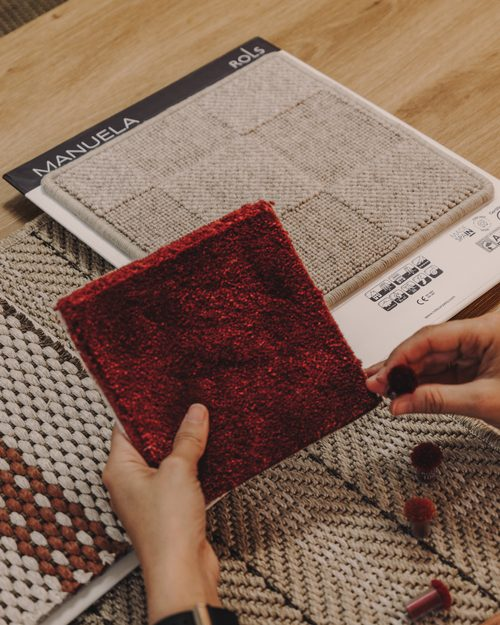
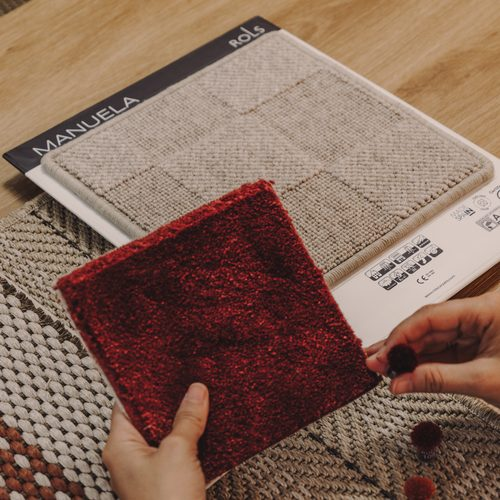
Tiendas #1: CTA arriba, muestras en mosaico 2x2, textos cortos y CTA de colecciones en pill

diff --git a/tiendas/01-muestrarios.html b/tiendas/01-muestrarios.html
@@ -33,56 +33,19 @@
         <h1 style="font-weight:300;font-size:34px;line-height:1.14;letter-spacing:-.01em;margin:0;color:#333a3c;">Todas nuestras colecciones en un solo muestrario para tu tienda</h1>
       </td></tr>
       <tr><td style="padding:20px 40px 34px;">
-        <p style="font-size:13px;line-height:1.8;color:rgba(51,58,60,.6);margin:0;font-weight:400;">Una herramienta pensada para facilitar cada venta. En Rols queremos ponértelo fácil desde el principio: <b style="font-weight:600;color:#333a3c;">pide tus muestras y recíbelas en 24/48&nbsp;h</b>. Así de simple.</p>
+        <p style="font-size:13px;line-height:1.8;color:rgba(51,58,60,.6);margin:0;font-weight:400;">Una herramienta pensada para facilitar cada venta. Pide tus muestras y recíbelas en <b style="font-weight:600;color:#333a3c;">24/48&nbsp;h</b>. Así de simple.</p>
       </td></tr>
 
       <!-- Muestrario -->
       <tr><td style="padding:0 40px 0;">
         <a href="https://www.rolscarpets.com/alta-de-cliente/"><img src="https://anarols.github.io/rols-emails/assets/tiendas-muestrario-c.jpg" width="520" alt="Muestrarios Rols: cajas de muestras de las colecciones Terra Uyuni, Aral, Manuela, Kilt y Palma Nomad" style="width:520px;height:auto;display:block;border-radius:16px;border:0;"></a>
       </td></tr>
-      <tr><td style="padding:14px 40px 48px;">
+      <tr><td style="padding:14px 40px 34px;">
         <p style="font-size:12px;line-height:1.6;color:#8a8a8a;margin:0;">Recupera su coste en tu primer pedido (+1.000&nbsp;€).</p>
       </td></tr>
 
-      <!-- Paso 1: muestras gratis (foto izq) -->
-      <tr><td style="padding:0 40px 40px;">
-        <table role="presentation" width="520" cellpadding="0" cellspacing="0" style="width:520px;table-layout:fixed;">
-          <tr>
-              <td width="250" valign="top" style="width:250px;"><img src="https://anarols.github.io/rols-emails/assets/tiendas-muestras-1-c.jpg" width="250" alt="Muestra de alfombra roja de pelo corto junto a la ficha Manuela de Rols" style="width:250px;height:auto;display:block;border-radius:16px;border:0;"></td><td width="20" style="width:20px;font-size:0;line-height:0;">&nbsp;</td><td width="250" valign="middle" style="width:250px;">
-                <h2 style="font-size:23px;line-height:1.3;font-weight:400;margin:0 0 12px;color:#333a3c;">Hasta 5 muestras gratuitas</h2>
-                <p style="font-size:13px;line-height:1.8;color:rgba(51,58,60,.68);margin:0;">Puedes solicitar hasta <b style="font-weight:600;color:#333a3c;">5 muestras gratuitas</b> para valorar su encaje en tu tienda y enseñárselas a tus clientes.</p>
-              </td>
-          </tr>
-        </table>
-      </td></tr>
-
-      <!-- Paso 2: 24/48 h (foto der) -->
-      <tr><td style="padding:0 40px 40px;">
-        <table role="presentation" width="520" cellpadding="0" cellspacing="0" style="width:520px;table-layout:fixed;">
-          <tr>
-              <td width="250" valign="middle" style="width:250px;">
-                <h2 style="font-size:23px;line-height:1.3;font-weight:400;margin:0 0 12px;color:#333a3c;">En tu tienda en 24/48&nbsp;h</h2>
-                <p style="font-size:13px;line-height:1.8;color:rgba(51,58,60,.68);margin:0;">Pide tus muestras y recíbelas en <b style="font-weight:600;color:#333a3c;">24/48&nbsp;h</b>. Así de simple.</p>
-              </td><td width="20" style="width:20px;font-size:0;line-height:0;">&nbsp;</td><td width="250" valign="top" style="width:250px;"><img src="https://anarols.github.io/rols-emails/assets/tiendas-muestras-3-c.jpg" width="250" alt="Mano eligiendo pompones de color entre muestras de alfombra Rols" style="width:250px;height:auto;display:block;border-radius:16px;border:0;"></td>
-          </tr>
-        </table>
-      </td></tr>
-
-      <!-- Paso 3: alta Rols Pro (foto izq) -->
-      <tr><td style="padding:0 40px 30px;">
-        <table role="presentation" width="520" cellpadding="0" cellspacing="0" style="width:520px;table-layout:fixed;">
-          <tr>
-              <td width="250" valign="top" style="width:250px;"><img src="https://anarols.github.io/rols-emails/assets/tiendas-muestras-2-c.jpg" width="250" alt="Muestras de alfombra Rols sobre una mesa de madera" style="width:250px;height:auto;display:block;border-radius:16px;border:0;"></td><td width="20" style="width:20px;font-size:0;line-height:0;">&nbsp;</td><td width="250" valign="middle" style="width:250px;">
-                <h2 style="font-size:23px;line-height:1.3;font-weight:400;margin:0 0 12px;color:#333a3c;">¿Empezamos?</h2>
-                <p style="font-size:13px;line-height:1.8;color:rgba(51,58,60,.68);margin:0;">Date de alta en <b style="font-weight:600;color:#333a3c;">Rols Pro</b> y accede a todas nuestras herramientas para profesionales, con el acompañamiento de nuestro equipo en todo momento.</p>
-
-              </td>
-          </tr>
-        </table>
-      </td></tr>
-
       <!-- CTA principal -->
-      <tr><td style="padding:0 40px 48px;">
+      <tr><td style="padding:0 40px 50px;">
         <table role="presentation" cellpadding="0" cellspacing="0" border="0" style="border-collapse:separate;">
           <tr>
             <td bgcolor="#ede2d6" align="center" style="background:#ede2d6;border-radius:100px;padding:17px 34px;">
@@ -93,27 +56,51 @@
         <p style="margin:14px 0 0;font-size:12px;color:#8a8a8a;line-height:1.6;">Hasta 5 muestras gratuitas, en tu tienda en 24/48&nbsp;h.</p>
       </td></tr>
 
-      <!-- Imagen de muestras a todo el ancho -->
-      <tr><td style="padding:0 40px 48px;">
-        <img src="https://anarols.github.io/rols-emails/assets/tiendas-muestras-wide-c.jpg" width="520" alt="Muestras de alfombra Rols: Maya Gradient y tejidos de la colección Aral" style="width:520px;height:auto;display:block;border-radius:16px;border:0;">
+      <!-- Muestras: encabezado + mosaico 2x2 -->
+      <tr><td style="padding:0 40px 6px;">
+        <h2 style="font-size:23px;line-height:1.3;font-weight:400;margin:0 0 7px;color:#333a3c;">Para que tus clientes las toquen</h2>
+        <p style="font-size:12px;line-height:1.6;color:#8a8a8a;margin:0 0 24px;">Solicita hasta 5 muestras gratuitas y enséñalas en tu tienda.</p>
+      </td></tr>
+      <tr><td style="padding:0 40px 50px;">
+        <table role="presentation" width="520" cellpadding="0" cellspacing="0" style="width:520px;table-layout:fixed;">
+          <tr>
+            <td width="250" valign="top" style="width:250px;">
+              <a href="https://www.rolscarpets.com/alta-de-cliente/"><img src="https://anarols.github.io/rols-emails/assets/tiendas-muestras-1-c.jpg" width="250" alt="Muestra de alfombra roja de pelo corto junto a la ficha Manuela de Rols" style="width:250px;height:250px;display:block;border-radius:16px;border:0;"></a>
+            </td>
+            <td width="20" style="width:20px;font-size:0;line-height:0;">&nbsp;</td>
+            <td width="250" valign="top" style="width:250px;">
+              <a href="https://www.rolscarpets.com/alta-de-cliente/"><img src="https://anarols.github.io/rols-emails/assets/tiendas-muestras-3-c.jpg" width="250" alt="Mano eligiendo pompones de color entre muestras de alfombra Rols" style="width:250px;height:250px;display:block;border-radius:16px;border:0;"></a>
+            </td>
+          </tr>
+          <tr><td colspan="3" height="20" style="height:20px;font-size:0;line-height:0;">&nbsp;</td></tr>
+          <tr>
+            <td width="250" valign="top" style="width:250px;">
+              <a href="https://www.rolscarpets.com/alta-de-cliente/"><img src="https://anarols.github.io/rols-emails/assets/tiendas-muestras-4-c.jpg" width="250" alt="Muestras Maya Gradient y tejidos de la colección Aral de Rols" style="width:250px;height:250px;display:block;border-radius:16px;border:0;"></a>
+            </td>
+            <td width="20" style="width:20px;font-size:0;line-height:0;">&nbsp;</td>
+            <td width="250" valign="top" style="width:250px;">
+              <a href="https://www.rolscarpets.com/alta-de-cliente/"><img src="https://anarols.github.io/rols-emails/assets/tiendas-muestras-2-c.jpg" width="250" alt="Muestras de alfombra Rols sobre una mesa de madera" style="width:250px;height:250px;display:block;border-radius:16px;border:0;"></a>
+            </td>
+          </tr>
+        </table>
       </td></tr>
 
       <!-- ¿Por qué elegir Rols? -->
-      <tr><td style="padding:0 40px 48px;">
+      <tr><td style="padding:0 40px 50px;">
         <h2 style="font-size:23px;line-height:1.3;font-weight:400;margin:0 0 6px;color:#333a3c;">¿Por qué elegir Rols?</h2>
         <table role="presentation" width="520" cellpadding="0" cellspacing="0" style="width:520px;table-layout:fixed;border-top:1px solid rgba(51,58,60,.13);margin-top:18px;">
           <tr>
-            <td width="160" valign="top" style="width:140px;padding:24px 20px 0 0;">
+            <td width="160" valign="top" style="width:160px;padding:24px 20px 0 0;">
               <div style="font-weight:300;font-size:20px;line-height:1.2;color:#333a3c;">A medida</div>
-              <div style="font-size:13px;line-height:1.6;color:rgba(51,58,60,.6);margin-top:10px;">Alfombras de diseño a la medida que necesites para cada proyecto.</div>
+              <div style="font-size:13px;line-height:1.6;color:rgba(51,58,60,.6);margin-top:8px;">Diseño a medida para cada proyecto.</div>
             </td>
-            <td width="180" valign="top" style="width:160px;padding:24px 20px 0 0;">
+            <td width="160" valign="top" style="width:160px;padding:24px 20px 0 0;">
               <div style="font-weight:300;font-size:20px;line-height:1.2;color:#333a3c;">+300 referencias</div>
-              <div style="font-size:13px;line-height:1.6;color:rgba(51,58,60,.6);margin-top:10px;">Para elegir, 100% tejidas en España y con certificación B&nbsp;Corp.</div>
+              <div style="font-size:13px;line-height:1.6;color:rgba(51,58,60,.6);margin-top:8px;">Tejidas en España, certificación B&nbsp;Corp.</div>
             </td>
-            <td width="180" valign="top" style="width:180px;padding:24px 0 0 0;">
+            <td width="160" valign="top" style="width:160px;padding:24px 0 0 0;">
               <div style="font-weight:300;font-size:20px;line-height:1.2;color:#333a3c;">Acompañamiento</div>
-              <div style="font-size:13px;line-height:1.6;color:rgba(51,58,60,.6);margin-top:10px;">Servicio de atención y acompañamiento dedicado para interioristas.</div>
+              <div style="font-size:13px;line-height:1.6;color:rgba(51,58,60,.6);margin-top:8px;">Atención dedicada para profesionales.</div>
             </td>
           </tr>
         </table>
@@ -122,46 +109,53 @@
       <!-- Colecciones -->
       <tr><td style="padding:0 40px 8px;">
         <h2 style="font-size:23px;line-height:1.3;font-weight:400;margin:0 0 7px;color:#333a3c;">Explora nuestras colecciones</h2>
-        <p style="font-size:12px;line-height:1.6;color:#8a8a8a;margin:0 0 24px;">Alfombras a medida diseñadas para adaptarse a distintos usos, estilos y necesidades.</p>
+        <p style="font-size:12px;line-height:1.6;color:#8a8a8a;margin:0 0 24px;">Diseñadas para adaptarse a distintos usos, estilos y necesidades.</p>
       </td></tr>
 
       <!-- Fila 1: Exterior / Sisal -->
-      <tr><td style="padding:0 40px 28px;">
+      <tr><td style="padding:0 40px 24px;">
         <table role="presentation" width="520" cellpadding="0" cellspacing="0" style="width:520px;table-layout:fixed;">
           <tr>
             <td width="250" valign="top" style="width:250px;">
               <a href="https://www.rolscarpets.com/alfombras-a-medida/exterior/"><img src="https://mcusercontent.com/179dbaccbce5f6118dae3b2cc/images/3822d8bc-6d2d-e792-65b3-bb3858c8a52d.jpg" width="250" alt="Alfombra de exterior Rols en una terraza con piscina" style="width:250px;height:auto;display:block;border-radius:16px;border:0;"></a>
-              <p style="font-size:14px;line-height:1.5;font-weight:500;margin:16px 0 6px;color:#333a3c;">Alfombras de exterior</p>
-              <p style="font-size:12px;line-height:1.7;color:rgba(51,58,60,.68);margin:0;">Diseñadas para vivir el exterior con naturalidad, combinando resistencia, textura y una estética serena que se integra en todo tipo de espacios al aire libre.</p>
-              <a href="https://www.rolscarpets.com/alfombras-a-medida/exterior/" style="display:inline-block;margin-top:10px;font-size:12px;line-height:1.6;color:#333a3c;text-decoration:underline;">Ver colección&nbsp;&nbsp;→</a>
+              <p style="font-size:14px;line-height:1.5;font-weight:500;margin:16px 0 4px;color:#333a3c;">Alfombras de exterior</p>
+              <p style="font-size:12px;line-height:1.6;color:rgba(51,58,60,.6);margin:0;">Resistentes, para espacios al aire libre.</p>
             </td>
             <td width="20" style="width:20px;font-size:0;line-height:0;">&nbsp;</td>
             <td width="250" valign="top" style="width:250px;">
               <a href="https://www.rolscarpets.com/alfombras-a-medida/sisal-look/"><img src="https://mcusercontent.com/179dbaccbce5f6118dae3b2cc/images/88fc71d6-6625-d5ef-4051-b40007589064.jpg" width="250" alt="Alfombra de aspecto sisal Rols en un dormitorio" style="width:250px;height:auto;display:block;border-radius:16px;border:0;"></a>
-              <p style="font-size:14px;line-height:1.5;font-weight:500;margin:16px 0 6px;color:#333a3c;">Alfombras de aspecto sisal</p>
-              <p style="font-size:12px;line-height:1.7;color:rgba(51,58,60,.68);margin:0;">La apariencia del sisal reinterpretada en clave contemporánea. Texturas naturales y equilibradas que aportan carácter y calidez visual al espacio.</p>
-              <a href="https://www.rolscarpets.com/alfombras-a-medida/sisal-look/" style="display:inline-block;margin-top:10px;font-size:12px;line-height:1.6;color:#333a3c;text-decoration:underline;">Ver colección&nbsp;&nbsp;→</a>
+              <p style="font-size:14px;line-height:1.5;font-weight:500;margin:16px 0 4px;color:#333a3c;">Alfombras de aspecto sisal</p>
+              <p style="font-size:12px;line-height:1.6;color:rgba(51,58,60,.6);margin:0;">Texturas naturales en clave contemporánea.</p>
             </td>
           </tr>
         </table>
       </td></tr>
 
       <!-- Fila 2: Monocolor / Geométricas -->
-      <tr><td style="padding:0 40px 48px;">
+      <tr><td style="padding:0 40px 40px;">
         <table role="presentation" width="520" cellpadding="0" cellspacing="0" style="width:520px;table-layout:fixed;">
           <tr>
             <td width="250" valign="top" style="width:250px;">
               <a href="https://www.rolscarpets.com/alfombras-a-medida/monocolor/"><img src="https://mcusercontent.com/179dbaccbce5f6118dae3b2cc/images/ad908b70-78cf-850d-a866-46253a3dfd38.jpg" width="250" alt="Alfombra monocolor granate Rols en un salón" style="width:250px;height:auto;display:block;border-radius:16px;border:0;"></a>
-              <p style="font-size:14px;line-height:1.5;font-weight:500;margin:16px 0 6px;color:#333a3c;">Alfombras monocolor</p>
-              <p style="font-size:12px;line-height:1.7;color:rgba(51,58,60,.68);margin:0;">Superficies calmadas y atemporales donde el color y la textura toman protagonismo con discreción, creando una base versátil para cualquier proyecto.</p>
-              <a href="https://www.rolscarpets.com/alfombras-a-medida/monocolor/" style="display:inline-block;margin-top:10px;font-size:12px;line-height:1.6;color:#333a3c;text-decoration:underline;">Ver colección&nbsp;&nbsp;→</a>
+              <p style="font-size:14px;line-height:1.5;font-weight:500;margin:16px 0 4px;color:#333a3c;">Alfombras monocolor</p>
+              <p style="font-size:12px;line-height:1.6;color:rgba(51,58,60,.6);margin:0;">Superficies calmadas y atemporales.</p>
             </td>
             <td width="20" style="width:20px;font-size:0;line-height:0;">&nbsp;</td>
             <td width="250" valign="top" style="width:250px;">
               <a href="https://www.rolscarpets.com/alfombras-a-medida/alfombras-geometricas/"><img src="https://mcusercontent.com/179dbaccbce5f6118dae3b2cc/images/b266e245-9bc1-7ce2-953a-8c71f88f94f8.jpg" width="250" alt="Alfombra geométrica verde Rols" style="width:250px;height:auto;display:block;border-radius:16px;border:0;"></a>
-              <p style="font-size:14px;line-height:1.5;font-weight:500;margin:16px 0 6px;color:#333a3c;">Alfombras geométricas</p>
-              <p style="font-size:12px;line-height:1.7;color:rgba(51,58,60,.68);margin:0;">Patrones sutiles que aportan ritmo y definición al espacio, manteniendo un equilibrio entre diseño gráfico y elegancia atemporal.</p>
-              <a href="https://www.rolscarpets.com/alfombras-a-medida/alfombras-geometricas/" style="display:inline-block;margin-top:10px;font-size:12px;line-height:1.6;color:#333a3c;text-decoration:underline;">Ver colección&nbsp;&nbsp;→</a>
+              <p style="font-size:14px;line-height:1.5;font-weight:500;margin:16px 0 4px;color:#333a3c;">Alfombras geométricas</p>
+              <p style="font-size:12px;line-height:1.6;color:rgba(51,58,60,.6);margin:0;">Patrones sutiles con ritmo y definición.</p>
+            </td>
+          </tr>
+        </table>
+      </td></tr>
+
+      <!-- CTA colecciones -->
+      <tr><td style="padding:0 40px 48px;">
+        <table role="presentation" cellpadding="0" cellspacing="0" border="0" style="border-collapse:separate;">
+          <tr>
+            <td bgcolor="#ede2d6" align="center" style="background:#ede2d6;border-radius:100px;padding:17px 34px;">
+              <a href="https://www.rolscarpets.com/alfombras-a-medida/" style="display:inline-block;color:#333a3c;text-decoration:none;font-family:'Montserrat','Roboto',Arial,Helvetica,sans-serif;font-size:11px;font-weight:600;letter-spacing:.16em;line-height:1;white-space:nowrap;">VER TODAS LAS COLECCIONES</a>
             </td>
           </tr>
         </table>
